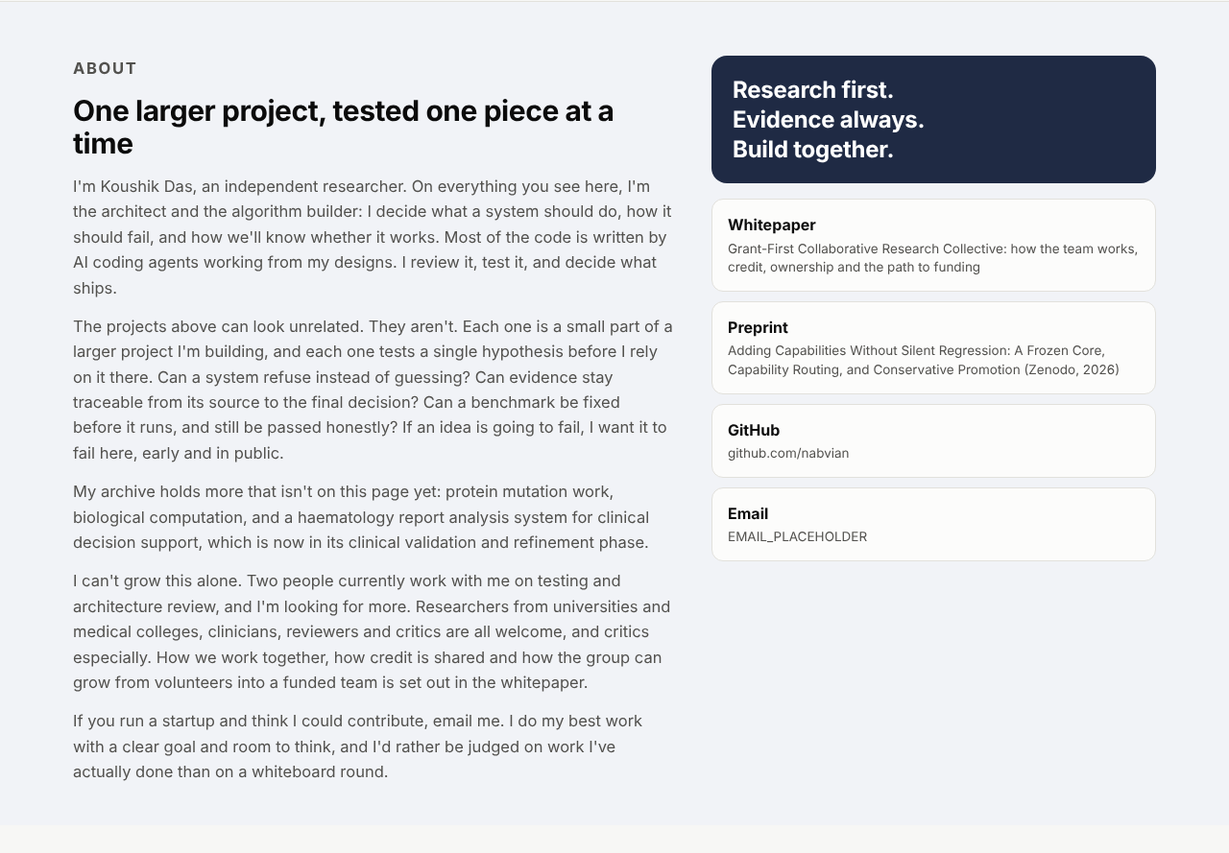
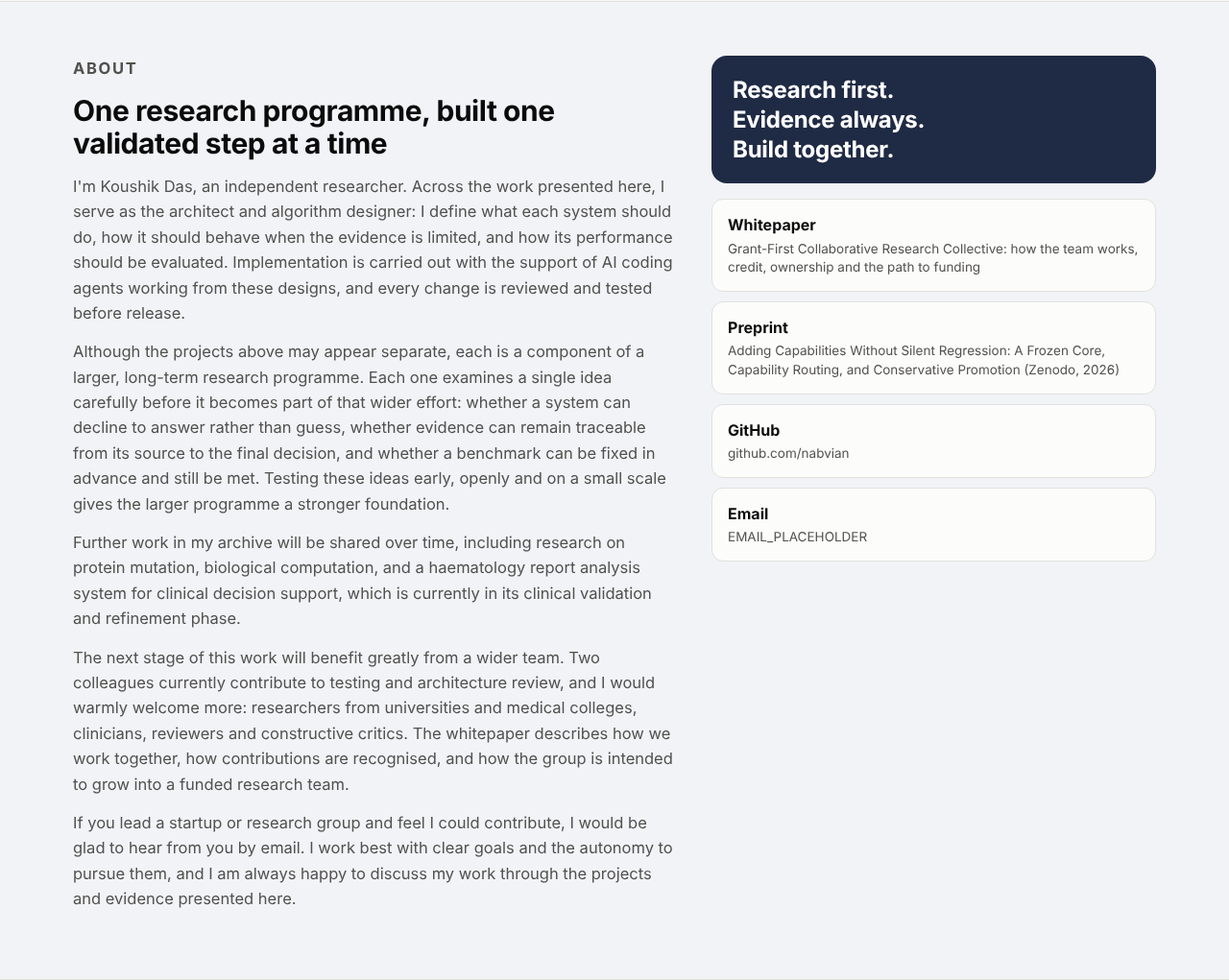
Draft 0.2: softer, more formal tone for the whitepaper and About section
Claude-Session: https://claude.ai/code/session_016qVKCg6jQ8hX6rV2dMeX21

Changed region(s): [[0.0625, 0.0607, 0.5625, 0.9415], [0.5625, 0.0304, 0.9375, 0.6378]]

diff --git a/index.html b/index.html
@@ -204,12 +204,12 @@
   <div class="wrap about">
     <div class="about-text">
       <p class="eyebrow">About</p>
-      <h2>One larger project, tested one piece at a time</h2>
-      <p>I'm Koushik Das, an independent researcher. On everything you see here, I'm the architect and the algorithm builder: I decide what a system should do, how it should fail, and how we'll know whether it works. Most of the code is written by AI coding agents working from my designs. I review it, test it, and decide what ships.</p>
-      <p>The projects above can look unrelated. They aren't. Each one is a small part of a larger project I'm building, and each one tests a single hypothesis before I rely on it there. Can a system refuse instead of guessing? Can evidence stay traceable from its source to the final decision? Can a benchmark be fixed before it runs, and still be passed honestly? If an idea is going to fail, I want it to fail here, early and in public.</p>
-      <p>My archive holds more that isn't on this page yet: protein mutation work, biological computation, and a haematology report analysis system for clinical decision support, which is now in its clinical validation and refinement phase.</p>
-      <p>I can't grow this alone. Two people currently work with me on testing and architecture review, and I'm looking for more. Researchers from universities and medical colleges, clinicians, reviewers and critics are all welcome, and critics especially. How we work together, how credit is shared and how the group can grow from volunteers into a funded team is set out in the whitepaper.</p>
-      <p>If you run a startup and think I could contribute, email me. I do my best work with a clear goal and room to think, and I'd rather be judged on work I've actually done than on a whiteboard round.</p>
+      <h2>One research programme, built one validated step at a time</h2>
+      <p>I'm Koushik Das, an independent researcher. Across the work presented here, I serve as the architect and algorithm designer: I define what each system should do, how it should behave when the evidence is limited, and how its performance should be evaluated. Implementation is carried out with the support of AI coding agents working from these designs, and every change is reviewed and tested before release.</p>
+      <p>Although the projects above may appear separate, each is a component of a larger, long-term research programme. Each one examines a single idea carefully before it becomes part of that wider effort: whether a system can decline to answer rather than guess, whether evidence can remain traceable from its source to the final decision, and whether a benchmark can be fixed in advance and still be met. Testing these ideas early, openly and on a small scale gives the larger programme a stronger foundation.</p>
+      <p>Further work in my archive will be shared over time, including research on protein mutation, biological computation, and a haematology report analysis system for clinical decision support, which is currently in its clinical validation and refinement phase.</p>
+      <p>The next stage of this work will benefit greatly from a wider team. Two colleagues currently contribute to testing and architecture review, and I would warmly welcome more: researchers from universities and medical colleges, clinicians, reviewers and constructive critics. The whitepaper describes how we work together, how contributions are recognised, and how the group is intended to grow into a funded research team.</p>
+      <p>If you lead a startup or research group and feel I could contribute, I would be glad to hear from you by email. I work best with clear goals and the autonomy to pursue them, and I am always happy to discuss my work through the projects and evidence presented here.</p>
     </div>
     <div class="about-side">
       <blockquote class="motto">Research first.<br>Evidence always.<br>Build together.</blockquote>

diff --git a/drafts/grant-first-collective.md b/drafts/grant-first-collective.md
@@ -1,220 +1,222 @@
 # Grant-First Collaborative Research Collective
 
-**How we build a research team before we have funding**
+**Building a research team ahead of funding: principles, roles and pathway**
 
-Koushik Das · Working paper, draft 0.1 · October 2026
+Koushik Das · Working paper, draft 0.2 · October 2026
 
 > Research first. Evidence always. Build together.
 
 ---
 
-## 1. Why I wrote this
+## 1. Purpose of this paper
 
-I work as an independent researcher. Over the last year I have built a set of research systems: CARETRACE, ORPHARA, DMOS, RE-FORM X, LUMERA, Q-BenchMed, UMNA, Graphspace and a few others still in my archive. From the outside they look like separate projects. They are not. Each one is a small piece of a larger project, and each one exists to test a single idea before I depend on it there.
+Over the past year, I have been developing a series of research systems as an independent researcher: CARETRACE, ORPHARA, DMOS, RE-FORM X, LUMERA, Q-BenchMed, UMNA, Graphspace, and further work that is still in my archive. Although these may appear to be separate projects, each one is in fact a component of a larger, long-term research programme. Each has been designed to examine one specific idea carefully before it becomes part of that wider effort.
 
-I have reached the point where I can't take this further on my own. The work needs people who know things I don't: clinicians, laboratory scientists, statisticians, imaging specialists, and good engineers. Above all, it needs people willing to tell me where I'm wrong.
+The work has now reached a stage where its next steps would benefit greatly from a wider circle of expertise. Clinicians, laboratory scientists, statisticians, imaging specialists and engineers would each bring knowledge that can strengthen it considerably. Thoughtful reviewers and constructive critics are equally valuable, because careful questioning is what turns a promising idea into reliable evidence.
 
-I don't have money to pay anyone yet. What I can offer is honest credit, real responsibility, and a clear plan for how a volunteer group becomes a funded research team. This paper writes that plan down. It's for anyone thinking about joining, and for me, so that I keep my own promises.
+This paper sets out how such a team can come together before formal funding is in place. It describes how contributions are recognised, how responsibility is shared, and how the group is intended to grow into a funded research team over time. It is written for anyone considering collaboration, and it also serves as a record of the commitments I intend to keep.
 
-It is a draft. If something in it seems unfair or unclear, tell me, and I'll change it.
+This is a living document. Suggestions and feedback are warmly welcomed, and it will be refined as the collective grows.
 
-## 2. Where things stand today
+## 2. Current position
 
-- **Me.** I'm the architect and algorithm builder. I decide what a system should do, how it should fail, and how we'll measure whether it works. Most of the code is written by AI coding agents working from my designs. I review it, test it, and decide what ships.
-- **The team.** Two people currently work with me, on testing and on architecture review.
-- **The work.** Six projects run live in a browser, three more are shown as showcases, and there is a preprint on Zenodo (doi:10.5281/zenodo.23097652). The archive also holds protein mutation work, biological computation, and a haematology report analysis system for clinical decision support. That last one is in its clinical validation and refinement phase.
-- **Funding.** None yet. This paper is about changing that the right way.
+- **Research lead.** I serve as the architect and algorithm designer for the programme. My role is to define what each system should do, how it should behave when evidence is limited, and how its performance should be evaluated. Implementation is carried out with the support of AI coding agents working from these designs, and every change is reviewed and tested before release.
+- **Team.** Two colleagues currently contribute to the work, supporting testing and architecture review.
+- **Body of work.** Six projects are available as live, in-browser demonstrations, three are presented as research showcases, and a preprint is available on Zenodo (doi:10.5281/zenodo.23097652). The archive further includes work on protein mutation, biological computation, and a haematology report analysis system for clinical decision support, which is currently in its clinical validation and refinement phase.
+- **Funding.** The programme is at a pre-funding stage. This paper outlines a considered path towards securing support.
 
-## 3. The model on one page
+## 3. The model at a glance
 
-The idea is simple: **form the team and produce the evidence first, then apply for grants as a team that already works together.**
+The approach is grant-first: **the team is formed and early evidence is gathered first, so that funding applications can be made by a group that has already worked together successfully.**
 
-Most funders want to see three things: a credible question, a team that can answer it, and early evidence that the approach is worth funding. A volunteer collective can produce all three. When the first grant arrives, the people who did the work are already there, already credited, and first in line for the paid roles.
+Research funders generally look for a well-defined question, a capable team and early evidence that the approach merits investment. A collaborative group can build all three together. When funding is secured, the people whose work made it possible are already part of the team, with their contributions recorded and recognised.
 
-The path has four stages:
+The intended pathway has four stages:
 
-| Stage | What it is | How people take part |
+| Stage | Description | How contributors take part |
 |---|---|---|
-| 0. Volunteer collective | Small, unpaid, focused on evidence | Scoped tasks, named credit, authorship |
-| 1. First grants | One or two funded studies | Paid roles go first to proven contributors |
-| 2. Funded research team | Stable funding, an institutional home | Salaried roles, formal agreements |
-| 3. Possible company | Only if the evidence supports a product | Early contributors considered first |
+| 0. Collaborative collective | A focused group building early evidence | Defined tasks, named credit, authorship opportunities |
+| 1. First grants | One or two funded studies | Funded roles offered first to established contributors |
+| 2. Funded research team | Sustained funding and an institutional home | Formal research or employment agreements |
+| 3. Potential venture | Considered where the evidence supports a product | Early contributors considered first for roles |
 
-Nobody should join expecting stage 3. It may never happen, and that's fine. A good paper, a validated method, or an open tool other people use is already a success.
+Each stage builds on the one before it. Every stage has value in its own right: a strong publication, a validated method or an open tool adopted by others are all meaningful outcomes.
 
-## 4. Who we are looking for
+## 4. Roles and opportunities
 
-I'm not looking for a particular job title. I'm looking for people who will own a piece of the work and finish it. These are the roles that would help most right now.
+Rather than looking for specific job titles, the collective welcomes people who would like to take ownership of a part of the work and see it through. The following roles would be especially valuable at this stage.
 
-**Research lead and architect (me, for now).** Sets the research questions, designs the systems, keeps the overall architecture coherent, and is responsible for what we claim in public.
+**Research lead and architect.** Defines research questions, designs the systems, maintains the coherence of the overall architecture, and takes responsibility for what the group communicates publicly. I currently hold this role.
 
-**Subsystem owners.** People who take responsibility for one component, such as an extractor, an evidence store, a benchmark harness or a reasoning engine. Section 6 explains what owning a subsystem means.
+**Subsystem leads.** Take responsibility for a specific component, such as an extraction module, an evidence store, a benchmark framework or a reasoning engine. Section 6 describes this role in more detail.
 
-**Developers.** People who build, fix and test. Working with AI coding tools is welcome, as long as you understand and can defend what you commit.
+**Developers.** Design, build, improve and test software. The use of AI-assisted development tools is welcome, provided the contributor understands and can explain the work they submit.
 
-**Domain experts.** Clinicians, radiologists, haematologists, pharmacists, formulation scientists, biologists. You tell us whether the problem is real, whether the assumptions hold, and whether an output would be safe to show someone.
+**Domain experts.** Clinicians, radiologists, haematologists, pharmacists, formulation scientists and biologists, who help ensure the questions are relevant, the assumptions are sound, and the outputs are appropriate and safe.
 
-**Testers and validators.** People who try to break things. They write the test cases nobody wants to write and check results against references.
+**Testers and validators.** Examine the systems rigorously, develop thorough test cases, and compare results against trusted references.
 
-**Reviewers and critics.** People who read the methods and the papers and tell us plainly what is weak. This is one of the most valuable roles here, and it can be done in a few hours a month.
+**Reviewers and advisers.** Review methods and manuscripts and offer candid, constructive feedback. This role is highly valued and can be fulfilled with a modest time commitment.
 
-**Data stewards.** People who handle where data comes from, what licence it carries, what we're allowed to do with it, and keeping patient data out of places it shouldn't be.
+**Data stewards.** Oversee data provenance, licensing and appropriate use, and help ensure that sensitive information is handled with care.
 
-**Writers and grant writers.** People who turn results into papers, reports and funding applications.
+**Writers and grant writers.** Help shape results into papers, reports and funding proposals.
 
-### What every role carries
+### Shared expectations
 
-Whatever your role, you are expected to:
+Across every role, the collective works by a few shared principles:
 
-- Say what you will do, and say early if you can't.
-- Write down what you did, so it can be credited and checked.
-- Keep the evidence honest. Never round a result up, and never hide a failed run.
-- Respect data. No real patient data goes anywhere without proper approval.
-- Treat other people's time and work with respect.
+- Agree on the scope of each contribution, and share any change in availability early.
+- Keep a clear record of work done, so that it can be recognised and verified.
+- Report results faithfully, including those that do not support the hypothesis.
+- Handle data responsibly, and use real patient data only with the appropriate approvals.
+- Respect one another's time, expertise and contributions.
 
-## 5. Joining before there is money
+## 5. Contributing at the pre-funding stage
 
-Let me be direct about this: volunteer work is unpaid work. I won't pretend otherwise, and I won't make promises I can't keep. Here is what I can promise.
+During the current stage, participation is voluntary and unpaid. The collective aims to make that time as rewarding as possible, through meaningful work, clear recognition and a fair path towards funded roles as support is secured.
 
-**Start small.** New people start with a scoped task that takes days, not months: a test suite, a review of one method, a dataset licence check. It's a chance for both sides to see whether the fit is right.
+**A gentle start.** New contributors usually begin with a well-defined task that can be completed in days rather than months, such as a test suite, a methods review or a dataset licence check. This lets both sides see how the collaboration fits.
 
-**Your time is yours.** There are no fixed hours. Tell me how much time you can give, and we'll size the work to match. If your situation changes, say so, and the work gets handed over without any hard feelings.
+**Flexible commitment.** There are no fixed hours. Each contributor indicates the time they can offer, and work is planned around it. If circumstances change, responsibilities can be handed over smoothly at any time.
 
-**Leaving is fine.** You can step away at any time. The credit for what you did stays yours (see section 7).
+**Recognition that lasts.** Contributors may step back whenever they need to. The recognition for their work remains in place permanently (see section 7).
 
-**No micromanagement.** Owners decide how to do their work. I care about what was done and how we know it works, not about watching how people spend their hours.
+**Trust and autonomy.** Those who lead a piece of work decide how best to carry it out. The emphasis is on outcomes and evidence, and contributors are trusted to manage their own time and approach.
 
-**Students are welcome.** If you're a student, this work can count toward a project, a thesis or a portfolio. Check your institution's rules first, and I'll help with whatever paperwork they need.
+**Opportunities for students.** Students are very welcome. With their institution's agreement, this work may contribute to a project, thesis or portfolio, and support with any required documentation will gladly be provided.
 
-## 6. Ownership of work
+## 6. Ownership and responsibility
 
-There are two kinds of ownership here, and both are real.
+Two complementary forms of ownership help each contributor take real responsibility for their work.
 
-### Subsystem ownership
+### Subsystem leadership
 
-A subsystem owner is responsible for one component. Within that component, the owner:
+A subsystem lead is responsible for a specific component. Within that component, the lead:
 
-- decides how it's built, within the shared architecture and the rules in this paper;
-- reviews changes to it, and can say no to changes that would break it;
-- keeps its documentation, tests and known limitations up to date;
-- is the named person for it in our records, release notes and papers.
+- guides its design and implementation, in line with the shared architecture and the principles in this paper;
+- reviews proposed changes and helps protect its stability and quality;
+- maintains its documentation, tests and record of known limitations;
+- is credited as its named lead in project records, release notes and publications.
 
-Ownership can be shared or passed on. When it is handed over, the record keeps both names and the dates.
+Leadership may be shared or transferred. When responsibility changes hands, both contributors and the relevant dates are recorded.
 
-### Research and problem ownership
+### Research question leadership
 
-Some people will own a question rather than a component, for example: "Does the evidence-guided signal catch errors that confidence alone misses?" The problem owner designs the study, sets the success criteria before the run, and leads the write-up. If the work becomes a paper, the problem owner normally has a strong claim to first authorship.
+Some contributors may prefer to lead a research question rather than a component, for example: "Do evidence-guided signals identify errors that confidence scores alone may miss?" The question lead designs the study, sets the success criteria before analysis begins, and leads the write-up. Where the work leads to a publication, the question lead would normally be well placed for first authorship.
 
-## 7. Credit
+## 7. Recognition and credit
 
-Credit is where research groups most often go wrong, so the rules come first, before anyone has a reason to argue about them.
+Clear and fair recognition is essential to any research collaboration, so these principles are agreed at the outset.
 
 ### Named technical credit
 
-Everyone who contributes is named:
+Every contributor is acknowledged by name:
 
-- in the project's contributors file, with their role;
-- in the release notes for the work they did;
+- in the project's contributors record, together with their role;
+- in the release notes for the work they contributed;
 - on the project page, for substantial contributions.
 
-Small contributions count too. A single bug fix gets a name in the record.
+Every contribution is valued, and even a single improvement is recorded.
 
-### Authorship based on contribution
+### Authorship by contribution
 
-Authorship on papers follows what people actually did, not seniority, and not who joined first.
+Authorship reflects each person's actual contribution to the work.
 
-- We describe contributions using the CRediT roles (conceptualisation, methodology, software, validation, formal analysis, investigation, data curation, writing, visualisation, supervision and so on). Every paper lists who did what.
-- To be an author, you need to have made a substantial contribution, helped write or critically revise the paper, approved the final version, and be willing to stand behind it. For clinical papers we follow the ICMJE criteria.
-- Author order is discussed and agreed in writing **before** writing starts, and revisited if contributions change along the way.
-- Contributions that don't meet the bar for authorship are listed in the acknowledgements, by name and role.
-- No gift authorship and no ghost authorship. Nobody is added for status, and nobody who did the work is left off.
+- Contributions are described using the CRediT taxonomy (conceptualisation, methodology, software, validation, formal analysis, investigation, data curation, writing, visualisation, supervision and others), and each publication includes a contribution statement.
+- Authorship is extended to those who have made a substantial contribution, taken part in drafting or critically revising the manuscript, approved the final version, and agreed to be accountable for the work. Clinical publications follow the ICMJE recommendations.
+- Author order is discussed and agreed in writing before drafting begins, and revisited if contributions change.
+- Valued contributions that fall outside the authorship criteria are recognised by name and role in the acknowledgements.
+- Authorship is based entirely on contribution, so that recognition is both fair and complete.
 
 ### References and recommendations
 
-When someone asks me for a reference or a recommendation letter, I write only about work I have seen and can point to: the commits, the reviews, the tests and the reports. That makes the letter specific, and it makes it believable. If I can't say something truthfully, I won't write it.
+Contributors who would like a reference or recommendation can expect one that is specific and well-founded. Each letter is based on the work itself, including code, reviews, tests and reports, which gives it credibility with universities, employers and funders.
 
 ## 8. Publications and conferences
 
-- **Preprints first.** We publish preprints (Zenodo, arXiv, medRxiv or bioRxiv, as appropriate) so the work is public, citable and dated early.
-- **Negative results count.** If a hypothesis fails, we write that up too. Some of our benchmark rounds failed, and they stay in the record.
-- **Who presents.** Normally the problem owner or the main contributor to that piece of work. We take turns, so different people get the experience.
-- **Travel and fees.** We only commit to a conference when the costs are covered by a grant, a travel award, or the presenter's institution. Nobody should pay out of pocket to represent the group.
-- **Clinical claims.** Anything that touches patient care goes through a clinical reviewer before it's submitted, and states its limits plainly.
+- **Early dissemination.** Work is shared as preprints (on Zenodo, arXiv, medRxiv or bioRxiv, as appropriate), so that it is public, citable and clearly dated.
+- **Complete reporting.** Results that do not support a hypothesis are reported alongside those that do. This openness is already part of the existing benchmark record.
+- **Presenting the work.** Presentations are normally given by the question lead or principal contributor, and opportunities are rotated so that team members can gain experience.
+- **Conference support.** Conference participation is planned where costs can be supported by grants, travel awards or the presenter's institution, so that representing the group does not become a personal expense.
+- **Clinical review.** Any work with implications for patient care is reviewed by a clinical adviser before submission, and its scope and limitations are stated clearly.
 
-## 9. Open source
+## 9. Open-source approach
 
-Openness is the default, with one deliberate exception.
+The collective is committed to openness wherever it is responsible to do so.
 
-- **Open now.** Engines, tools, benchmark harnesses and results, under recognised licences (AGPL-3.0, Apache-2.0, CC BY 4.0, depending on the project). Contributions to an open project are made under that project's licence.
-- **Not open yet.** Clinical knowledge bases and models that haven't been validated. Publishing an unvalidated clinical knowledge base invites people to use it as if it were finished. These open once validation is complete, which is the stated plan for ORPHARA, for example.
-- **Contributor sign-off.** Contributors confirm they have the right to submit their work, using a simple sign-off on each commit (the Developer Certificate of Origin).
-- **Third-party work.** We respect the licences of the tools, models and datasets we use, and say clearly where each one came from.
+- **Open contributions.** Engines, tools, benchmark frameworks and results are shared under recognised licences (AGPL-3.0, Apache-2.0 or CC BY 4.0, depending on the project). Contributions to open projects are made under the project's licence.
+- **Staged release of clinical knowledge.** Clinical knowledge bases and models are released once they have completed validation, so that they are used with confidence and in the right context. This is the stated plan for ORPHARA, among others.
+- **Contribution sign-off.** Contributors confirm their right to submit their work through the Developer Certificate of Origin, a simple sign-off on each commit.
+- **Respect for third-party work.** The licences of all tools, models and datasets used are respected, and their sources are acknowledged clearly.
 
 ## 10. Grant-first team formation
 
-This section explains how the volunteer collective becomes the team named on a grant.
+This section outlines how the collective prepares to become the team named on a funding application.
 
-1. **Pick a fundable question.** One question, small enough for one grant, with clear evidence already gathered.
-2. **Build the evidence package.** Working software, preregistered results (including failed runs), a limitations section, and the contribution records from section 7.
-3. **Find an institutional home.** Many funders require the grant to be held by a university, hospital or registered organisation. University and medical college collaborators are essential here, as co-investigators or as the host institution.
-4. **Name the team honestly.** The application names the people who did the work, in the roles they actually played.
-5. **Budget for people first.** When money arrives, the first priority is paying the contributors who made the application possible, in proportion to the roles they'll take on.
+1. **A well-defined question.** A single question, appropriately scoped for one grant and supported by early evidence.
+2. **A strong evidence package.** Working software, pre-registered results (including inconclusive ones), a clear statement of limitations, and the contribution records described in section 7.
+3. **An institutional partner.** Many funders require grants to be held by a university, hospital or registered organisation. Collaborators from universities and medical colleges are therefore central to this stage, as co-investigators or as the host institution.
+4. **An accurate team description.** Applications name the contributors who carried out the work, in the roles they played.
+5. **People at the centre of the budget.** When funding is awarded, the first priority is to support the contributors who made the application possible, in roles that reflect their contribution.
 
-Every grant application is drafted openly within the team. Everyone named on it reviews it before submission.
+Funding applications are prepared collaboratively, and everyone named on an application reviews it before submission.
 
 ## 11. Governance and decision-making
 
-The rules are kept as light as they can be while still being fair.
+Governance is designed to be light, transparent and fair.
 
-- **Owners decide within their area.** Subsystem and problem owners make day-to-day decisions without asking permission.
-- **Shared decisions are written down.** Anything that crosses areas (architecture, licences, what we claim in public, author order) starts as a short written proposal. Everyone affected gets time to comment, normally a week. Then the decision and its reasons go into a decision log.
-- **Who breaks a tie.** For now, I do, as research lead. As the team grows, this moves to a small steering group of active owners.
-- **The clinical safety veto.** A clinical reviewer can stop any public claim or release that touches patient safety. That veto can't be overruled by a vote.
-- **Disagreement is normal.** Argue about the evidence, not the person. If a disagreement can't be settled, run the experiment and let the result decide.
-- **Conduct.** We follow a written code of conduct. Harassment or misrepresenting someone's work ends a person's participation.
+- **Decisions close to the work.** Subsystem and question leads make day-to-day decisions within their own areas.
+- **Shared decisions in writing.** Matters that span several areas, such as architecture, licensing, public communication and authorship order, begin as a short written proposal. Those affected are given time to comment, normally around a week, and the outcome and reasoning are recorded in a decision log.
+- **Resolving open questions.** At present, the research lead makes the final decision where consensus has not been reached. As the team grows, this responsibility is intended to pass to a steering group of active leads.
+- **Clinical safety review.** A clinical reviewer may pause any public claim or release that raises a patient safety concern, and that review takes precedence.
+- **Constructive discussion.** Differences of opinion are a healthy part of research. Discussions focus on the evidence, and where a question remains open, a well-designed experiment is often the best way forward.
+- **Code of conduct.** All contributors follow a written code of conduct that ensures a respectful, inclusive and professional environment.
 
 ## 12. Intellectual property and ownership
 
-This is the section most likely to change once lawyers and funders are involved, so read it as principles rather than legal terms. Before any funding agreement or company is formed, we will get proper legal advice and put everything in writing.
+This section sets out guiding principles. Formal terms will be established in writing, with appropriate legal advice, before any funding agreement or company formation.
 
-- **What existed before.** The systems, designs and knowledge I built before the collective existed remain my pre-existing IP. I list them openly so there is no confusion later.
-- **Open-project contributions.** Work contributed to an open-source project is licensed under that project's licence. You keep your copyright, and everyone gets the rights the licence grants.
-- **Private-project contributions.** For projects that aren't open yet, contributors sign a short contributor agreement before they start. It says what rights the project receives, and that the contributor keeps the credit.
-- **Inventions and new ideas.** If a contribution leads to something patentable or commercially valuable, the people involved are recorded at the time, with dates and the evidence behind it. Joint work is treated as joint work.
-- **Data.** Data rights belong to whoever provided the data, under the terms they set. We never claim ownership of a partner's data.
-- **No promises in this paper.** I won't promise salaries, equity or a share of future revenue here, because that would be dishonest before any of it exists. What I do promise is that contribution records will be the basis for those decisions when they come.
+- **Pre-existing work.** Systems, designs and knowledge developed before the collective was formed remain my pre-existing intellectual property. These are listed openly to ensure clarity for everyone involved.
+- **Open-source contributions.** Contributions to open-source projects are licensed under the relevant project licence. Contributors retain their copyright, and the licence defines the rights shared with others.
+- **Contributions to non-public projects.** For projects that are not yet public, contributors sign a short contributor agreement before beginning. It sets out the rights granted to the project and confirms the contributor's recognition.
+- **New inventions and ideas.** Where a contribution leads to something with patent or commercial potential, the people involved are recorded at the time, together with dates and supporting evidence. Joint work is recognised as joint work.
+- **Data rights.** Data remains the property of the organisation or person who provided it, under the terms they set.
+- **Future arrangements.** Compensation, equity and any other future arrangements will be agreed formally when the time comes. The contribution records kept throughout the work will form the foundation for those discussions.
 
-## 13. From volunteers to a funded team, and maybe a company
+## 13. Pathway: from collective to funded team and beyond
 
-Each move to a new stage has a clear trigger, so nobody has to guess.
+Each transition has a clear milestone, so that every contributor can see how the group intends to grow.
 
-**Stage 0 to stage 1 happens when a grant is awarded.** Funded roles are offered first to the contributors whose work the grant depends on, as shown by the contribution records.
+**Stage 0 to stage 1: the first grant is awarded.** Funded roles are offered first to the contributors whose work the grant builds on, as shown by the contribution records.
 
-**Stage 1 to stage 2 happens when funding is stable enough for an institutional home.** Formal employment or research agreements replace volunteer arrangements. The governance rules in section 11 become part of those agreements.
+**Stage 1 to stage 2: sustained funding and an institutional home.** Formal research or employment agreements take the place of voluntary arrangements, and the governance principles in section 11 carry forward into those agreements.
 
-**Stage 2 to stage 3 happens only if the evidence supports a product,** for example when a method has been externally validated and there is a real use for it that a company would serve better than a research group. If that happens, early contributors are considered first for roles in the company, and their recorded contributions are taken into account in any ownership discussion, with independent legal advice for everyone.
+**Stage 2 to stage 3: a potential venture.** Where a method has been externally validated and a company would be the most effective way to bring it into use, the formation of a venture may be considered. In that case, early contributors will be considered first for roles, and their recorded contributions will inform any discussion of ownership, with independent legal advice available to everyone involved.
 
-If the evidence never supports a company, we stay a research team. That isn't a failure.
+Whichever direction the evidence leads, a strong, well-functioning research team is a valuable and lasting outcome.
 
-## 14. What we will not do
+## 14. Our commitments
 
-- Promise money, jobs or equity that don't exist.
-- Claim clinical validity before it has been shown, or present a prototype as a medical device.
-- Take credit for someone else's work, or let someone's work go uncredited.
-- Hide failed results.
-- Micromanage people who are giving their time for free.
-- Put real patient data anywhere it hasn't been approved to go.
+Contributors can rely on the collective to:
 
-## 15. How to join
+- be transparent about funding, roles and opportunities at every stage;
+- represent research findings accurately, and present prototypes as research work until validation is complete;
+- recognise every contribution fully and fairly;
+- report all results, including those that challenge a hypothesis;
+- respect contributors' autonomy and time;
+- treat patient data with the highest standards of care and approval.
 
-If any of this interests you, get in touch with:
+## 15. Getting involved
 
-- a few lines about yourself and what you'd like to work on;
-- the role from section 4 that fits you best, or a role I haven't thought of;
-- roughly how much time you can give;
-- a link to something you've done, if you have one: code, a paper, a review, anything.
+If you are interested in contributing, you are warmly invited to get in touch. It would help to include:
 
-University groups, medical colleges, independent reviewers and critics are all welcome. You don't need to agree with my approach to join. Disagreeing well is one of the most useful things you can bring.
+- a brief introduction and the area you would like to work on;
+- the role from section 4 that suits you best, or another role you would like to propose;
+- an indication of the time you are able to contribute;
+- a link to previous work, if available, such as code, a publication or a review.
+
+University research groups, medical colleges, independent reviewers and critics are all most welcome. A different perspective is always valued, and thoughtful disagreement is one of the most useful contributions anyone can make.
 
 **Contact:** EMAIL_PLACEHOLDER · github.com/nabvian · nabvian.github.io
 
@@ -222,4 +224,4 @@ University groups, medical colleges, independent reviewers and critics are all w
 
 *Research first. Evidence always. Build together.*
 
-*This is a working draft and will change as the collective grows. Version history is kept with the document.*
+*This working paper will be updated as the collective develops. A version history is maintained alongside the document.*
